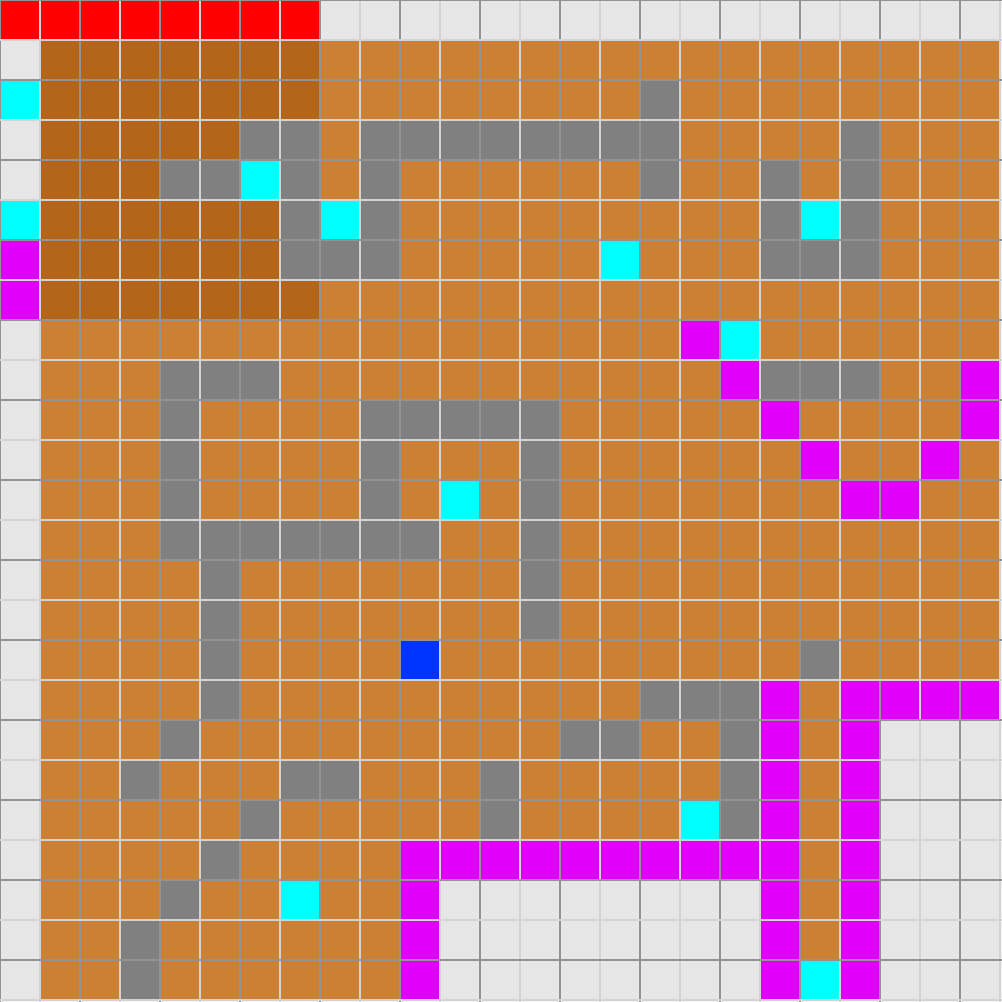
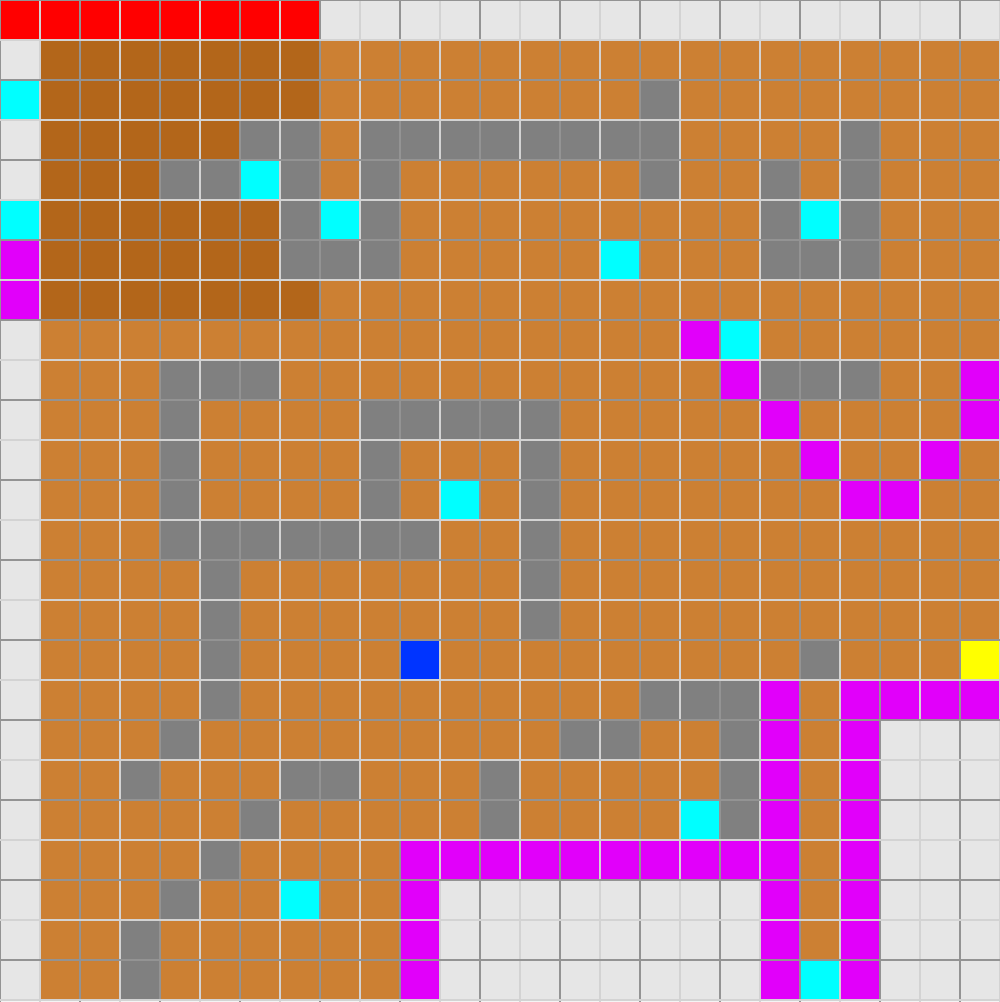
New image

diff --git a/src/NG8x8RGBMatrixGameBoulderdash.cpp b/src/NG8x8RGBMatrixGameBoulderdash.cpp
@@ -536,7 +536,7 @@ void NG8x8RGBMatrixGameBoulderdash::_initLevelTwoMaze() {
     _generateDiamond(6, 21);
     _generateDiamond(19, 23);
     // Door
-    _generateDoor(x, y);
+    _generateDoor(23, 15);
     // Rocky
     _computeRocky();
 }
